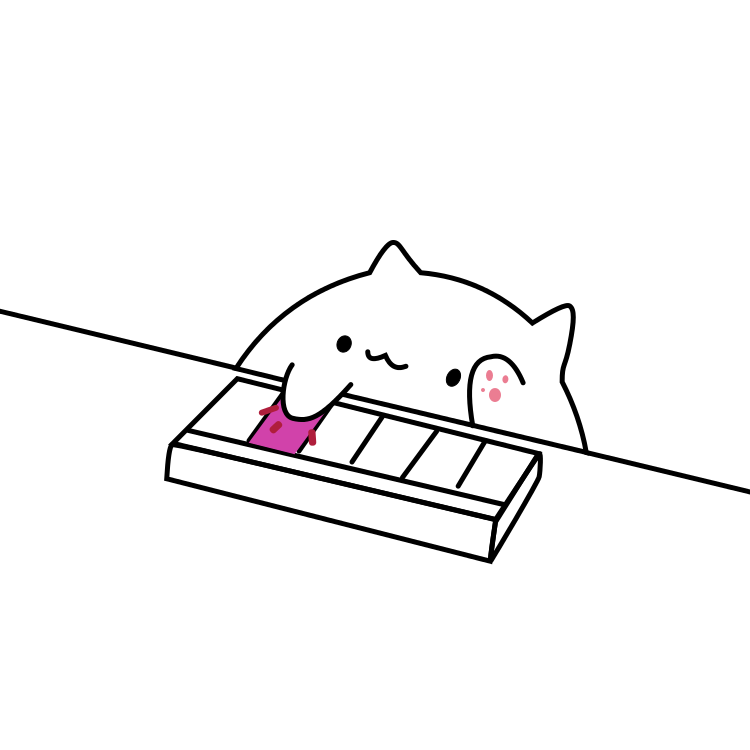
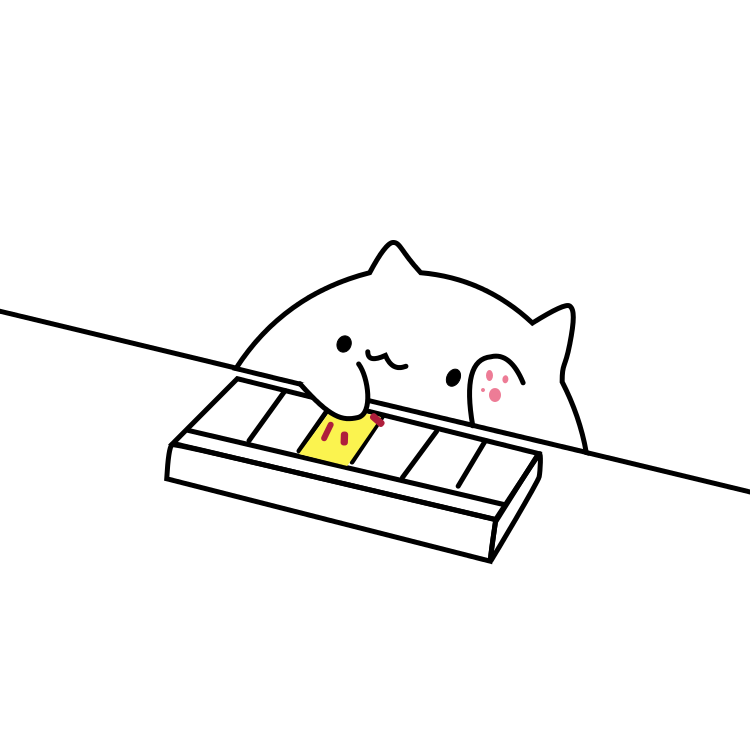
wow neuton u can't math (fixed bongo scaling)

Changed region(s): [[0.3373, 0.4907, 0.5213, 0.644]]

diff --git a/js/utility.js b/js/utility.js
@@ -1,5 +1,7 @@
 const note_list = ['A0', 'A#0', 'B0', 'C1', 'C#1', 'D1', 'D#1', 'E1', 'F1', 'F#1', 'G1', 'G#1', 'A1', 'A#1', 'B1', 'C2', 'C#2', 'D2', 'D#2', 'E2', 'F2', 'F#2', 'G2', 'G#2', 'A2', 'A#2', 'B2', 'C3', 'C#3', 'D3', 'D#3', 'E3', 'F3', 'F#3', 'G3', 'G#3', 'A3', 'A#3', 'B3', 'C4', 'C#4', 'D4', 'D#4', 'E4', 'F4', 'F#4', 'G4', 'G#4', 'A4', 'A#4', 'B4', 'C5', 'C#5', 'D5', 'D#5', 'E5', 'F5', 'F#5', 'G5', 'G#5', 'A5', 'A#5', 'B5', 'C6', 'C#6', 'D6', 'D#6', 'E6', 'F6', 'F#6', 'G6', 'G#6', 'A6', 'A#6', 'B6', 'C7', 'C#7', 'D7', 'D#7', 'E7', 'F7', 'F#7', 'G7', 'G#7', 'A7', 'A#7', 'B7', 'C8'];
 
+// console.log(note_list.length)
+
 // clean_note()
 // -- Returns clean filename-safe name of a note
 function clean_note(note) {

diff --git a/visualizers/bongo-cat.php b/visualizers/bongo-cat.php
@@ -33,7 +33,7 @@
 		function visualize(track_index, time, note) {
 			Tone.Draw.schedule(function() {
 				const $track = $('#track_' + track_index)
-				const image_down_index = 6 - Math.floor(note_list.indexOf(note.name) / 15);
+				const image_down_index = Math.floor(note_list.indexOf(note.name) / 15)
 
 				// Immediately set hands to up
 				$track.attr('src', 'visualizers/bongo-cat-u.png')
